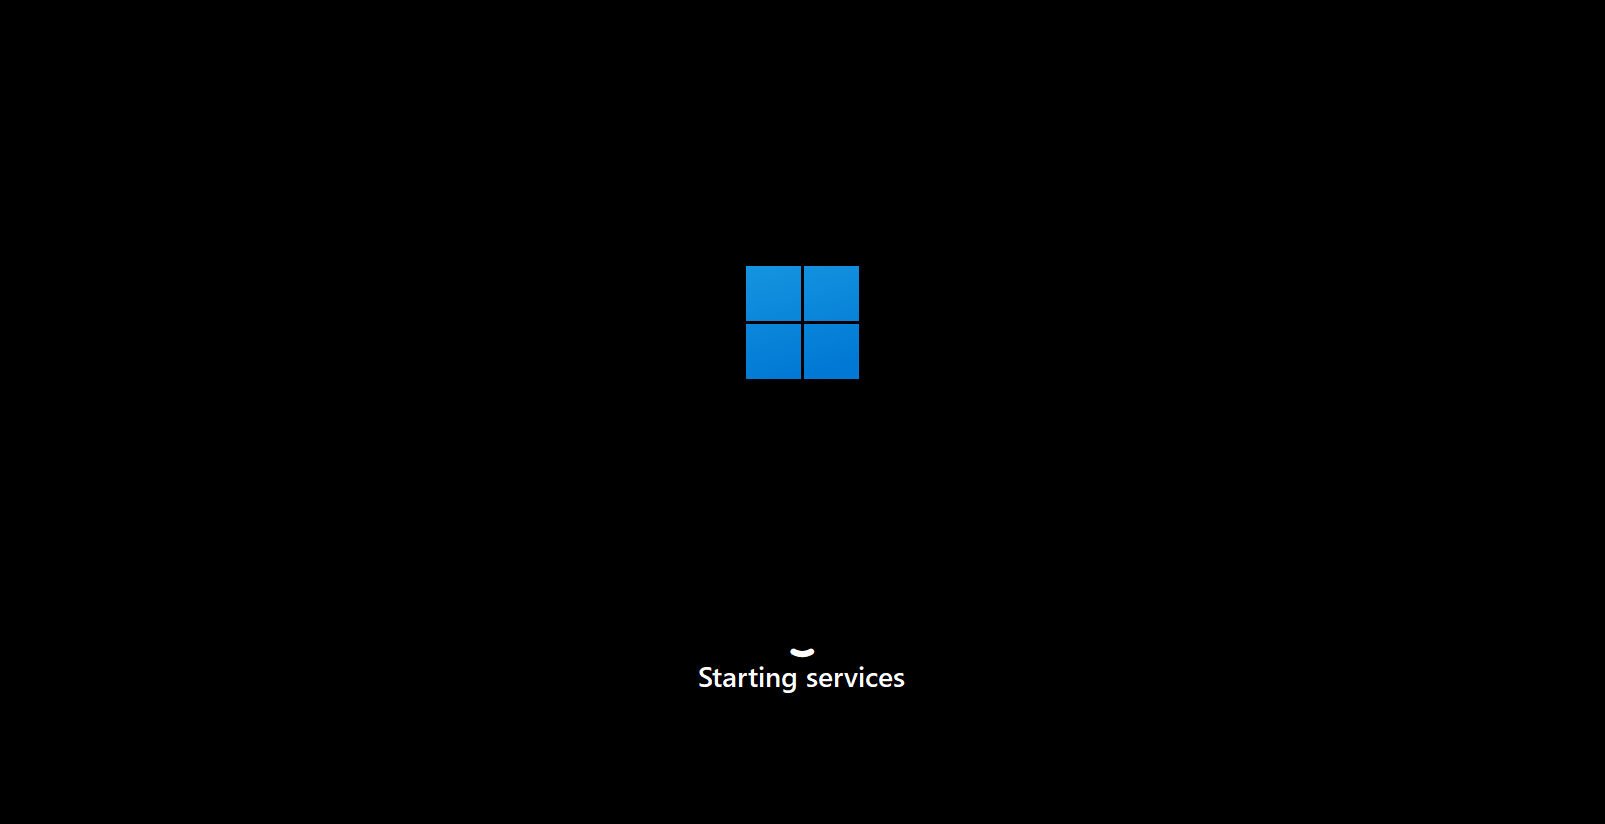
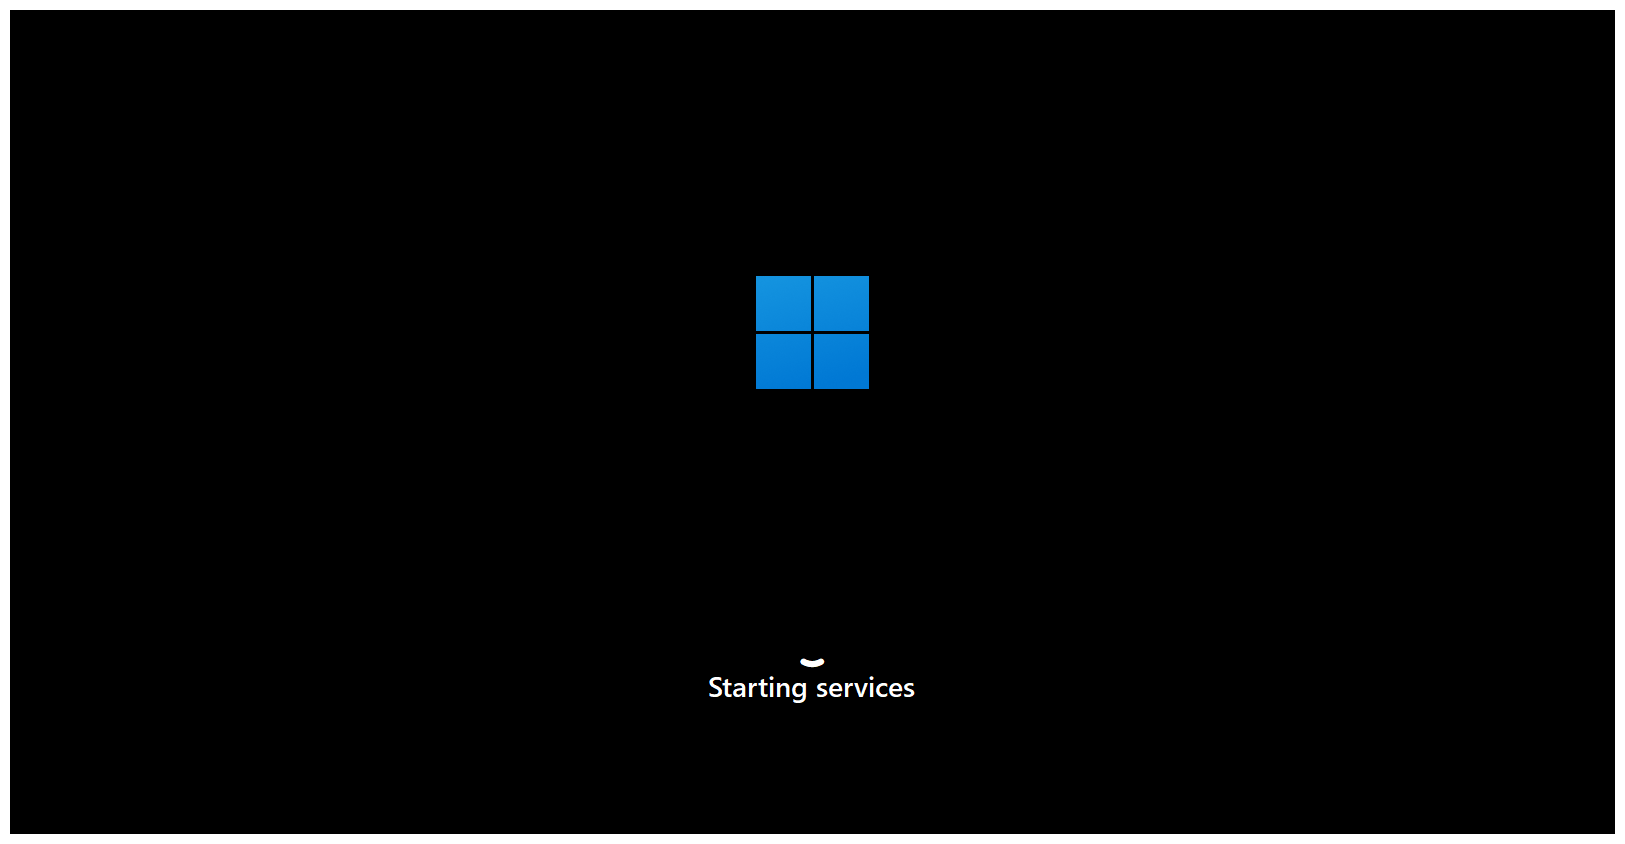
Updated image boarders

diff --git a/README2.md b/README2.md
@@ -74,13 +74,13 @@ You will see a page "Installing Windows" listing  status of the install. It will
 ## 13
 Eventually, you will see a page showint "Starting services". Just wait until it completes:
 <p align="center">
-    <img src="images2/13.png" width="310" height="230" style="border: 2px solid white;">
+    <img src="images2/13.png" width="310" height="230">
 </p>
 
 ## 14
 Eventually, you will see a page showint "Just a moment...". Just wait until it completes:
 <p align="center">
-    <img src="images2/14.png" width="310" height="230" style="border: 2px solid white;">
+    <img src="images2/14.png" width="310" height="230">
 </p>
 
 ## 15
@@ -104,7 +104,7 @@ Now you need to enter a state where it is "Checking for updates". Just wait unti
 ## 18
 You will now see a black page the "Welcome" shown indicating it is still completing the install. Just wait until it completes:
 <p align="center">
-    <img src="images2/18.png" width="310" height="230" style="border: 2px solid white;">
+    <img src="images2/18.png" width="310" height="230">
 </p>
 ## 19
 Now you will see a page "Let's set things up for you work or school".
@@ -172,12 +172,13 @@ The page should eventually update with the message "Your update is in progress, 
 You will now see a black page with a progress message listed. Just continue to wait until it completes:
 
 <p align="center">
-    <img src="images2/29.png" width="310" height="230" style="border: 2px solid white;">
+    <img src="images2/29.png" width="310" height="230">
 </p>
+
 ## 30
 Just wait until it completes:
 <p align="center">
-    <img src="images2/30.png" width="310" height="230" style="border: 2px solid white;">
+    <img src="images2/30.png" width="310" height="230">
 </p>
 
 ## 31
